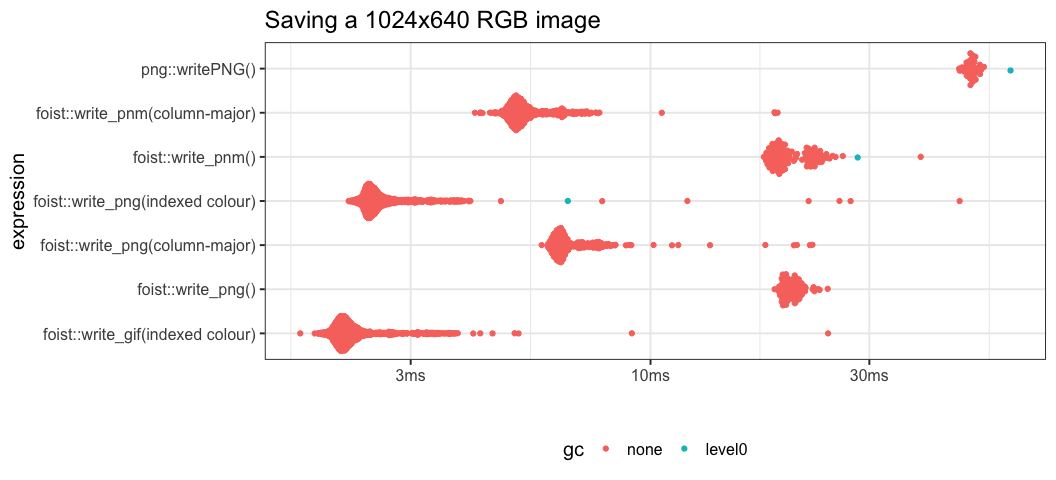
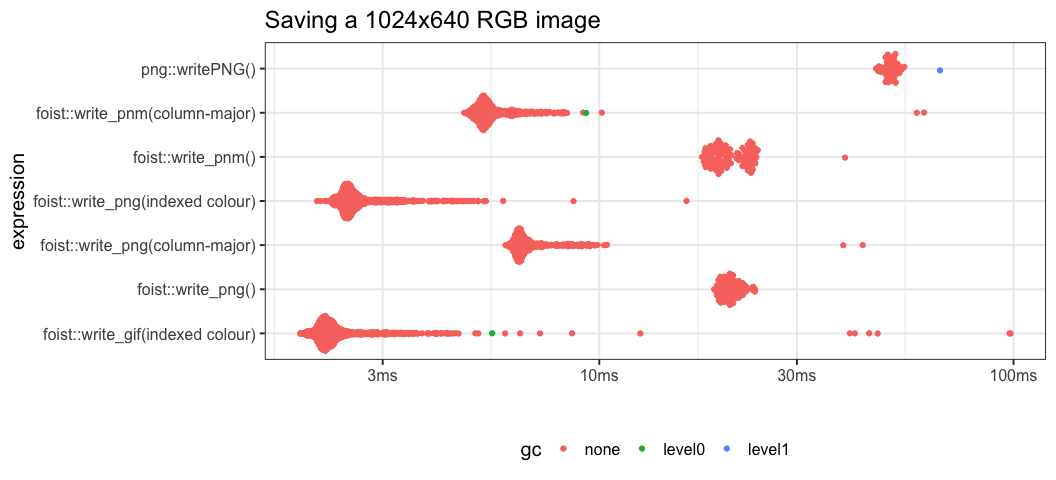
include a JPEG benchmark

diff --git a/README.md b/README.md
@@ -268,15 +268,15 @@ have almost no speed penalty.
 
 | expression                                                                                     |     min |  median | itr/sec | mem\_alloc |
 | :--------------------------------------------------------------------------------------------- | ------: | ------: | ------: | ---------: |
-| foist::write\_pnm(dbl\_mat, tmp)                                                               |  2.77ms |  3.44ms |     274 |     2.49KB |
-| foist::write\_pnm(dbl\_mat, tmp, convert\_to\_row\_major = FALSE)                              |  1.85ms |  2.15ms |     398 |     2.49KB |
-| foist::write\_gif(dbl\_mat, tmp)                                                               |  2.81ms |  3.14ms |     291 |     2.49KB |
-| foist::write\_gif(dbl\_mat, tmp, convert\_to\_row\_major = FALSE)                              |  1.84ms |  2.16ms |     420 |     2.49KB |
-| foist::write\_png(dbl\_mat, tmp)                                                               |  3.17ms |  3.54ms |     265 |     2.49KB |
-| foist::write\_png(dbl\_mat, tmp, convert\_to\_row\_major = FALSE)                              |  2.17ms |  2.47ms |     373 |     2.49KB |
-| foist::write\_png(dbl\_mat, tmp, convert\_to\_row\_major = FALSE, flipy = TRUE, invert = TRUE) |  2.21ms |  2.52ms |     358 |     2.49KB |
-| png::writePNG(dbl\_mat, tmp)                                                                   | 12.56ms | 14.02ms |      70 |   670.84KB |
-| caTools::write.gif(dbl\_mat, tmp)                                                              |  25.3ms | 27.93ms |      33 |    35.17MB |
+| foist::write\_pnm(dbl\_mat, tmp)                                                               |   2.9ms |  3.85ms |     231 |     2.49KB |
+| foist::write\_pnm(dbl\_mat, tmp, convert\_to\_row\_major = FALSE)                              |   1.9ms |  2.25ms |     395 |     2.49KB |
+| foist::write\_gif(dbl\_mat, tmp)                                                               |  2.79ms |  3.33ms |     276 |     2.49KB |
+| foist::write\_gif(dbl\_mat, tmp, convert\_to\_row\_major = FALSE)                              |  1.86ms |  2.25ms |     403 |     2.49KB |
+| foist::write\_png(dbl\_mat, tmp)                                                               |  3.21ms |  3.71ms |     248 |     2.49KB |
+| foist::write\_png(dbl\_mat, tmp, convert\_to\_row\_major = FALSE)                              |  2.25ms |  2.53ms |     368 |     2.49KB |
+| foist::write\_png(dbl\_mat, tmp, convert\_to\_row\_major = FALSE, flipy = TRUE, invert = TRUE) |  2.21ms |  2.57ms |     358 |     2.49KB |
+| png::writePNG(dbl\_mat, tmp)                                                                   | 12.64ms | 14.24ms |      69 |   670.81KB |
+| caTools::write.gif(dbl\_mat, tmp)                                                              | 27.43ms | 31.96ms |      31 |    35.18MB |
 
 Benchmark results
 
@@ -301,14 +301,32 @@ using:
 
 | expression                                                                                |     min |  median | itr/sec | mem\_alloc |
 | :---------------------------------------------------------------------------------------- | ------: | ------: | ------: | ---------: |
-| foist::write\_pnm(dbl\_arr, tmp)                                                          | 17.66ms | 19.67ms |      48 |     2.49KB |
-| foist::write\_pnm(dbl\_arr, tmp, convert\_to\_row\_major = FALSE)                         |  4.14ms |   5.2ms |     180 |     2.49KB |
-| foist::write\_png(dbl\_arr, tmp)                                                          | 18.65ms | 20.35ms |      49 |     2.49KB |
-| foist::write\_png(dbl\_arr, tmp, convert\_to\_row\_major = FALSE)                         |  5.79ms |  6.41ms |     143 |     2.49KB |
-| foist::write\_png(dbl\_mat, tmp, convert\_to\_row\_major = FALSE, pal = foist::vir$magma) |   2.2ms |  2.49ms |     357 |     2.49KB |
-| foist::write\_gif(dbl\_mat, tmp, convert\_to\_row\_major = FALSE, pal = foist::vir$magma) |  1.72ms |  2.17ms |     431 |     2.49KB |
-| png::writePNG(dbl\_arr, tmp)                                                              | 47.09ms | 50.22ms |      20 |     1.88MB |
+| foist::write\_pnm(dbl\_arr, tmp)                                                          |  17.7ms | 20.36ms |      48 |     2.49KB |
+| foist::write\_pnm(dbl\_arr, tmp, convert\_to\_row\_major = FALSE)                         |  4.72ms |  5.35ms |     167 |     2.49KB |
+| foist::write\_png(dbl\_arr, tmp)                                                          | 18.93ms | 20.68ms |      48 |     2.49KB |
+| foist::write\_png(dbl\_arr, tmp, convert\_to\_row\_major = FALSE)                         |  5.94ms |  6.51ms |     140 |     2.49KB |
+| foist::write\_png(dbl\_mat, tmp, convert\_to\_row\_major = FALSE, pal = foist::vir$magma) |  2.08ms |   2.5ms |     370 |     2.49KB |
+| foist::write\_gif(dbl\_mat, tmp, convert\_to\_row\_major = FALSE, pal = foist::vir$magma) |   1.9ms |  2.23ms |     340 |     2.49KB |
+| png::writePNG(dbl\_arr, tmp)                                                              | 46.57ms | 50.49ms |      20 |     1.88MB |
 
 Benchmark results
 
 <img src="man/figures/README-benchmark_rgb-1.png" width="100%" />
+
+## Benchmark: Saving an RGB image vs JPEG
+
+The following benchmark compares the time to output a colour image
+using:
+
+  - `foist::write_png()` saving a 3D array in both row-major and
+    column-major ordering
+
+| expression                                                        |     min |  median | itr/sec | mem\_alloc |
+| :---------------------------------------------------------------- | ------: | ------: | ------: | ---------: |
+| foist::write\_png(dbl\_arr, tmp)                                  | 19.41ms | 21.93ms |      44 |     2.49KB |
+| foist::write\_png(dbl\_arr, tmp, convert\_to\_row\_major = FALSE) |  5.98ms |  6.93ms |      76 |     2.49KB |
+| jpeg::writeJPEG(dbl\_arr, tmp)                                    | 26.99ms | 31.08ms |      32 |      1.9MB |
+
+Benchmark results
+
+<img src="man/figures/README-benchmark_rgb_jpeg-1.png" width="100%" />
